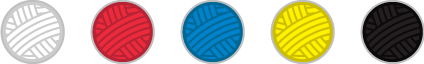
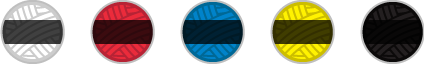
Updated wool images.
Removed main and contrast disabled

diff --git a/src/constants.js b/src/constants.js
@@ -163,8 +163,8 @@ exports = {
         blue: new Image({url: imagePath + 'wool-blue.png'}),
         yellow: new Image({url: imagePath + 'wool-yellow.png'}),
         black: new Image({url: imagePath + 'wool-black.png'}),
-        disabledMain: new Image({url: imagePath + 'wool-main-disabled.png'}),
-        disabledContrast: new Image({url: imagePath + 'wool-contrast-disabled.png'})
+        disabledMain: new Image({url: imagePath + 'wool-main.png'}),
+        disabledContrast: new Image({url: imagePath + 'wool-contrast.png'})
     },
     tabImages: [
         new Image({url: imagePath + 'tab-1.png'}),
